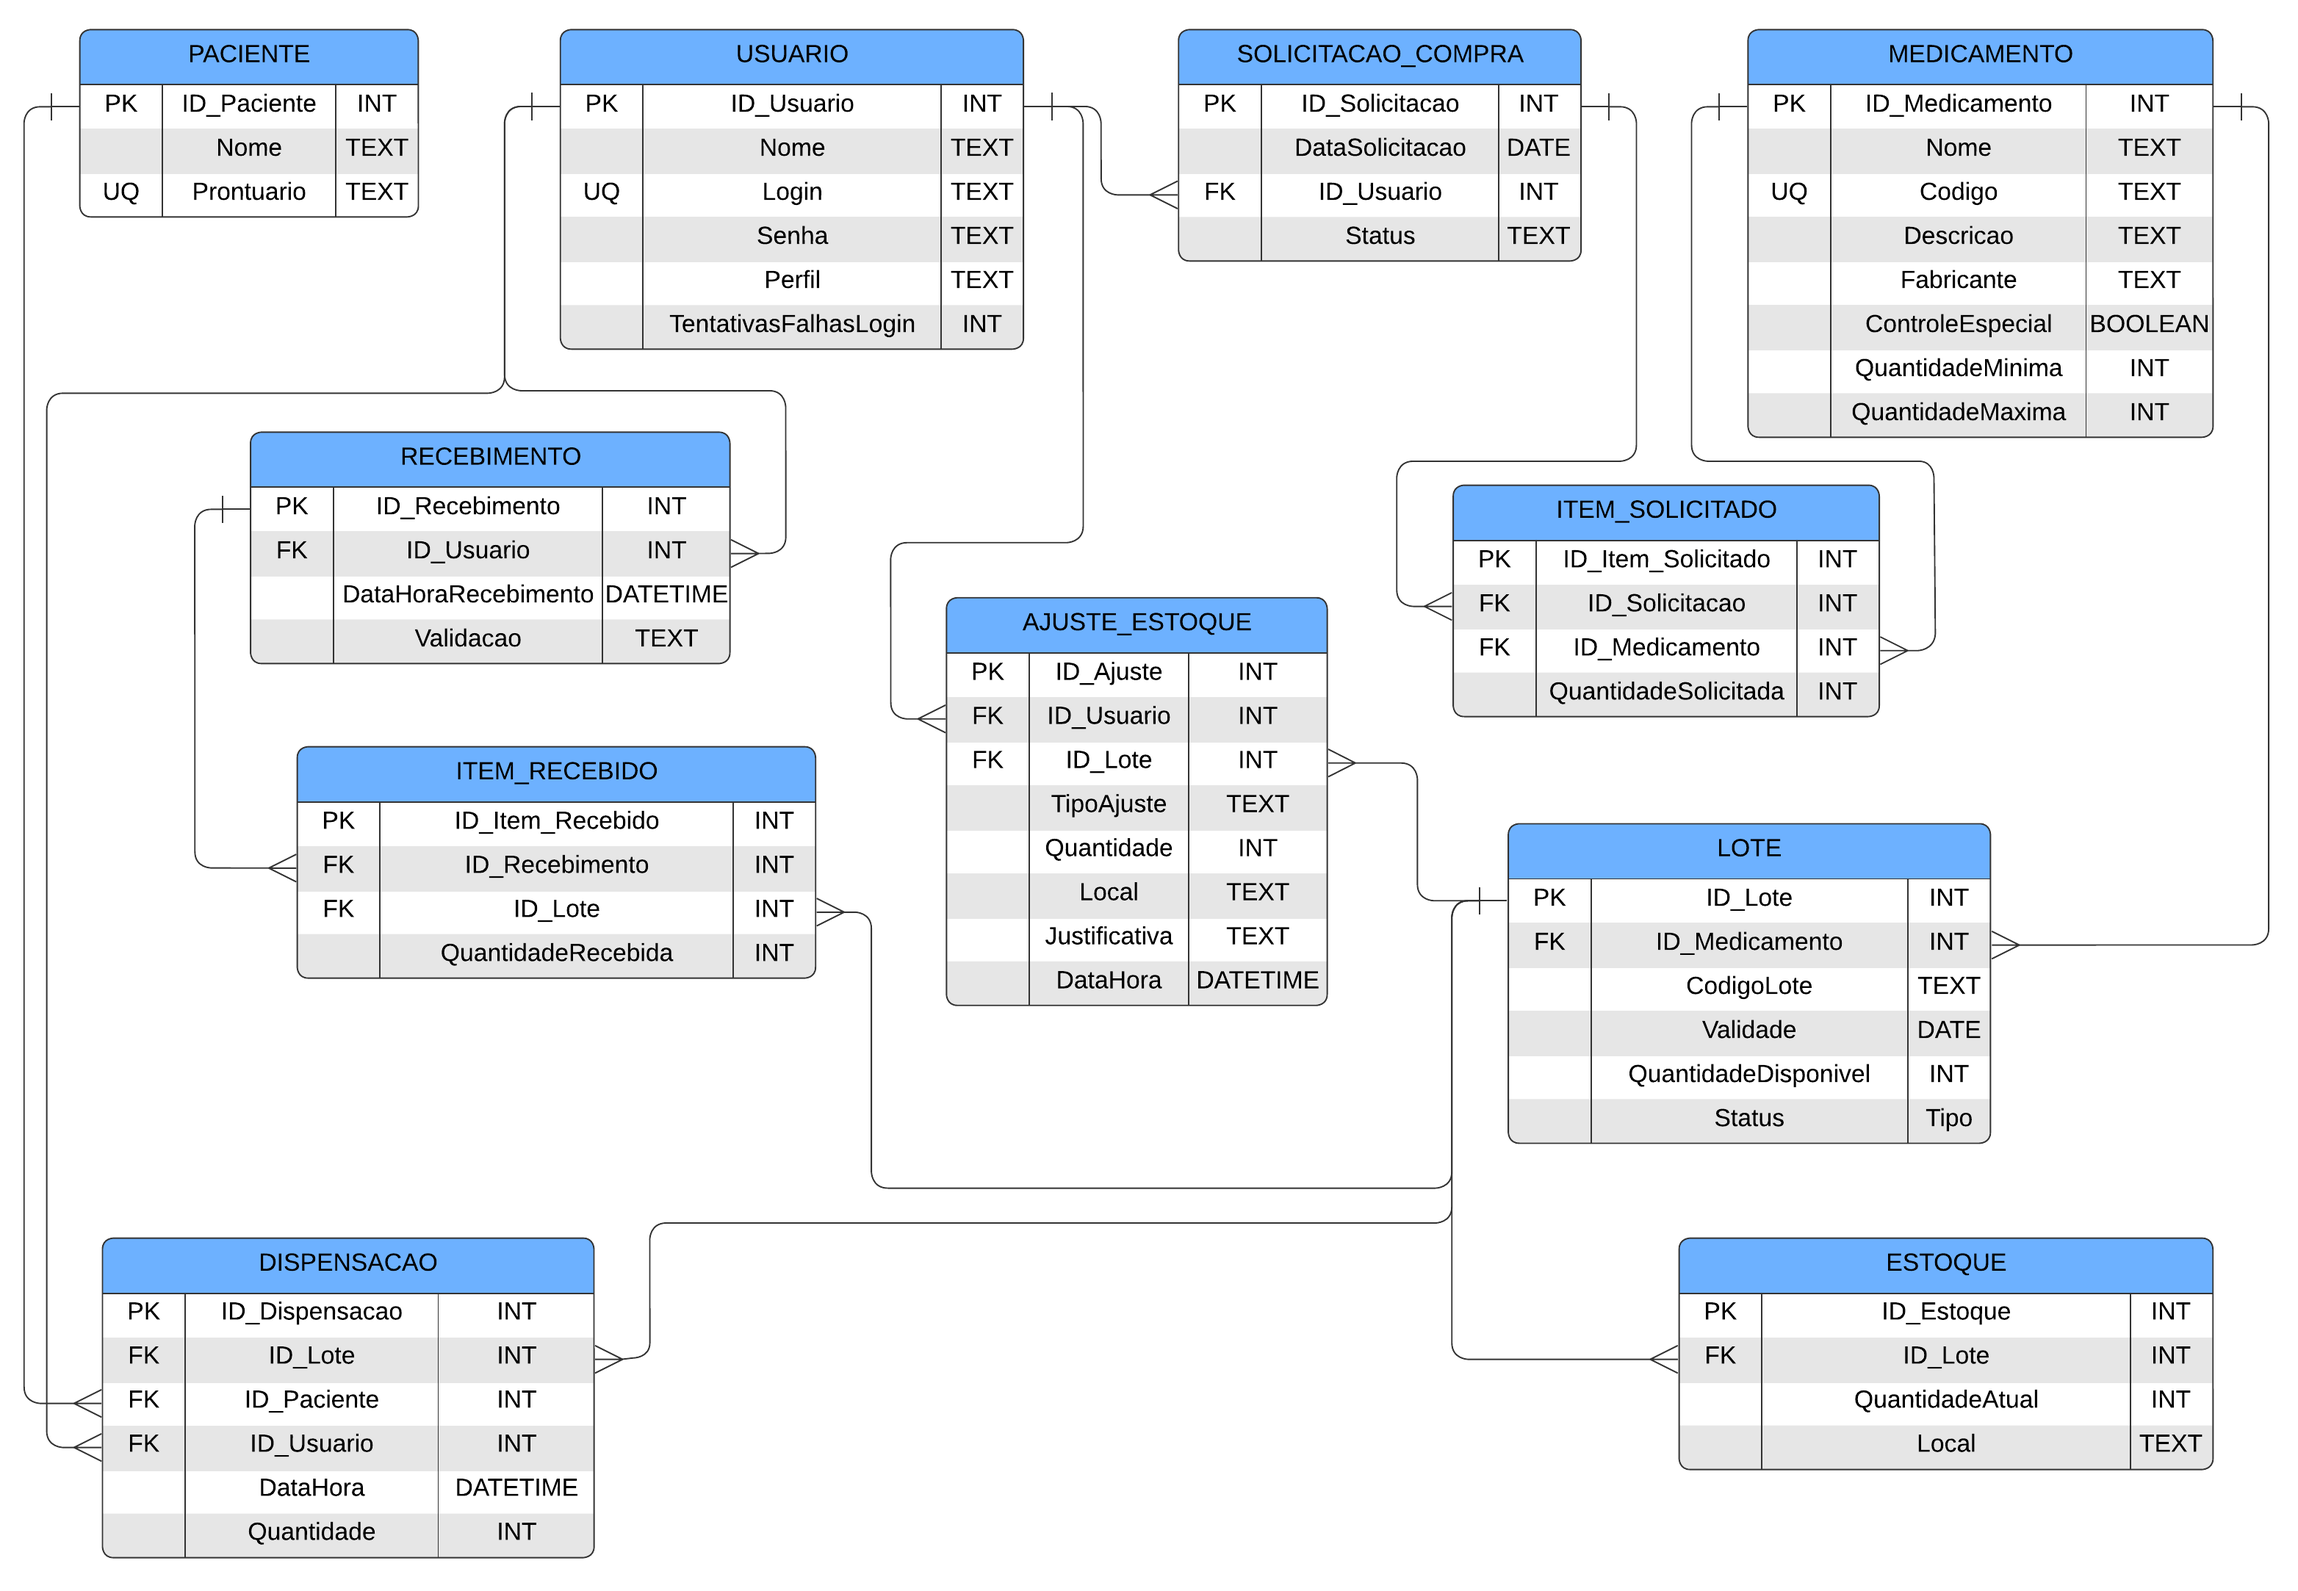
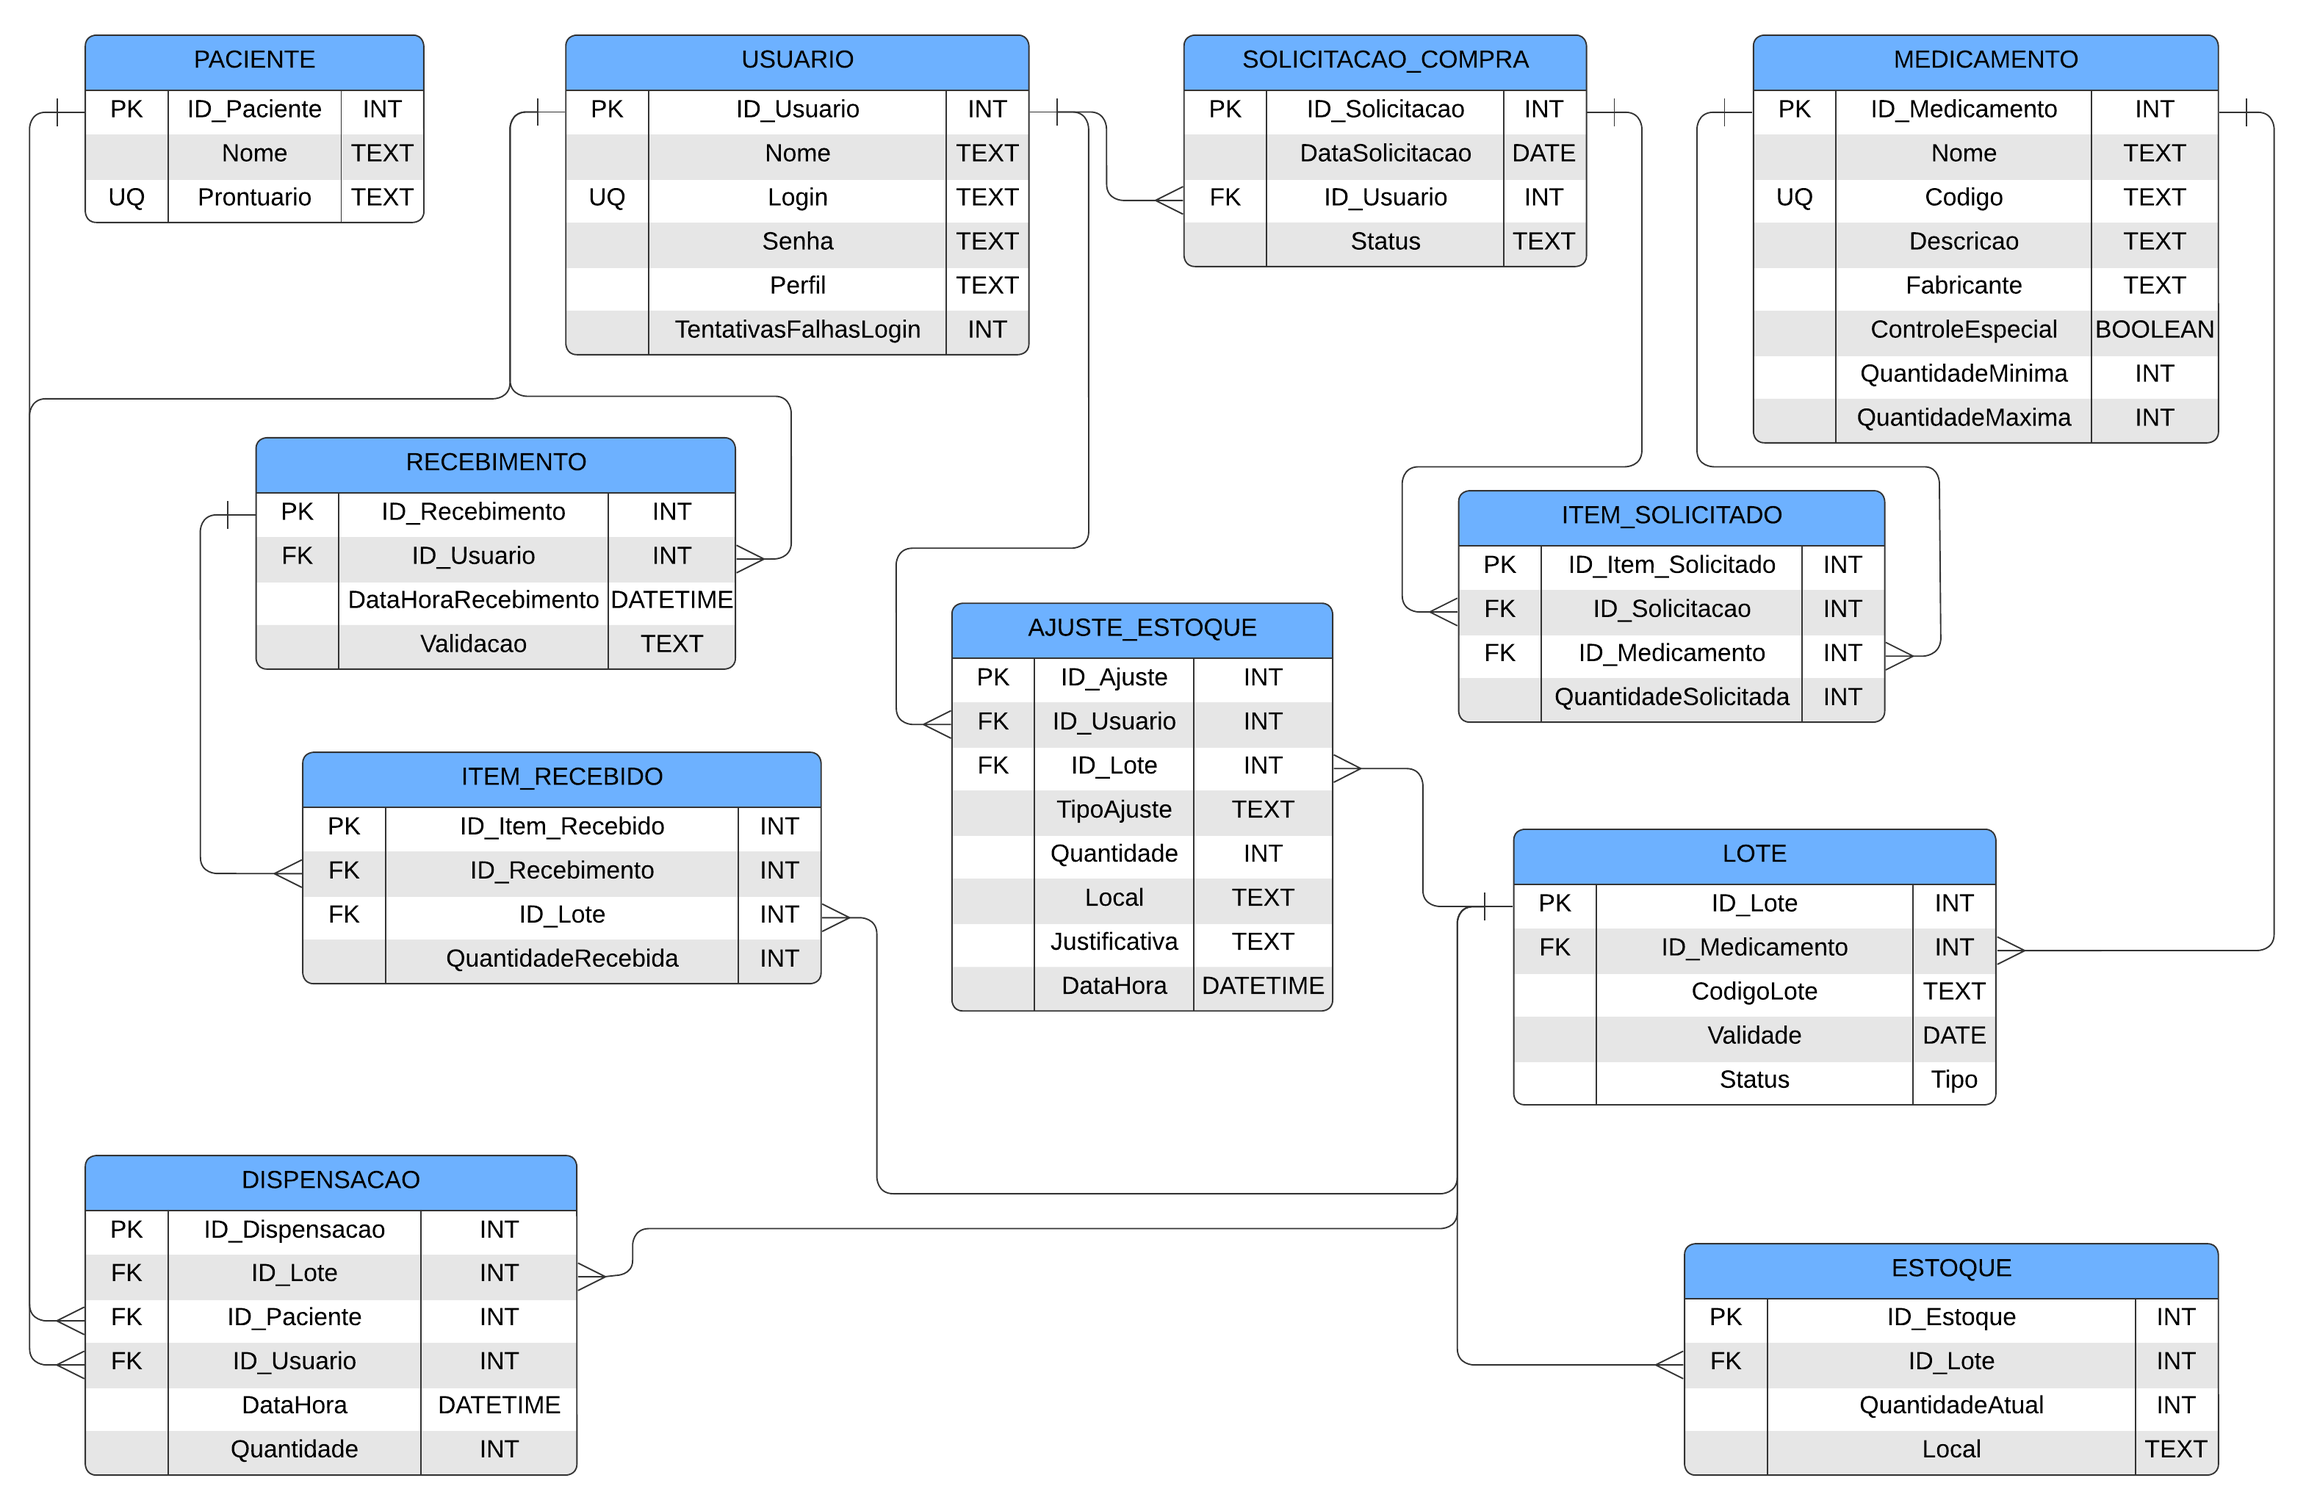
docs: Ajustes do MER/DER/Dicionario

diff --git a/docs/visao-projeto-produto/der.md b/docs/visao-projeto-produto/der.md
@@ -22,7 +22,7 @@ O Modelo e o Diagrama de Entidade e Relacionamento apresentados neste documento 
 **Atributos:**
 - Usuário: ID_Usuario, Nome, Login, Senha, Perfil, TentativasFalhasLogin
 - Medicamento: ID_Medicamento, Nome, Codigo, Descricao, Fabricante, ControleEspecial, QuantidadeMinima, QuantidadeMaxima
-- Lote: ID_Lote, ID_Medicamento, CodigoLote, Validade, QuantidadeDisponivel, Status
+- Lote: ID_Lote, ID_Medicamento, CodigoLote, Validade, Status
 - Estoque: ID_Estoque, ID_Lote, QuantidadeAtual, Local
 - Paciente: ID_Paciente, Nome, Prontuario
 - Dispensação: ID_Dispensacao, ID_Lote, ID_Paciente, ID_Usuario, DataHora, Quantidade
@@ -51,7 +51,7 @@ O Modelo e o Diagrama de Entidade e Relacionamento apresentados neste documento 
 
 ## Diagrama de Entidade e Relacionamento
 
-[docs/DER.png](/workspaces/2024.2-Requisitores/docs/img/DER.png)
+[Imagem do DER](docs/img/DER.png)
 
 ## Dicionário de dados
 
@@ -94,7 +94,6 @@ O Modelo e o Diagrama de Entidade e Relacionamento apresentados neste documento 
 | ID_Medicamento         | INT    | NÃO  | Referência ao medicamento associado.    |
 | CodigoLote             | TEXT   | NÃO  | Código único do lote.                   |
 | Validade               | DATE   | NÃO  | Data de validade do lote.               |
-| QuantidadeDisponivel   | INT    | NÃO  | Quantidade disponível no lote.          |
 | Status                 | TEXT   | NÃO  | Status do lote (ex.: ativo, expirado).  |
 
 ---
@@ -204,4 +203,5 @@ O Modelo e o Diagrama de Entidade e Relacionamento apresentados neste documento 
 
 | **Data**       | **Versão** | **Descrição**                                                     | **Autor**                                                                                      |
 |----------------|------------|-------------------------------------------------------------------|------------------------------------------------------------------------------------------------|
-| 25/01/2025     | 1.1        | Inclusão do MER, DER e do dicionário de dados | Davi Casseb, Fernanda Noronha, Joyce Dionizio, Karolina Barbosa, Vitor Carvalho Pereira, Yago Amin Santos |
+| 25/01/2025     | 1.0        | Inclusão do MER, DER e do dicionário de dados | Davi Casseb, Fernanda Noronha, Joyce Dionizio, Karolina Barbosa, Vitor Carvalho Pereira, Yago Amin Santos |
+| 26/01/2025     | 1.1        | Ajustes do MER, DER e do dicionário de dados | Davi Casseb, Fernanda Noronha, Joyce Dionizio, Karolina Barbosa, Vitor Carvalho Pereira, Yago Amin Santos |
